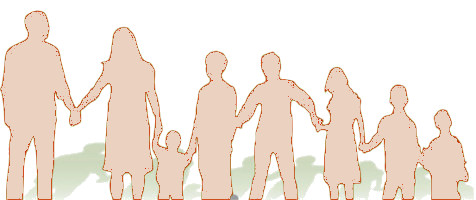
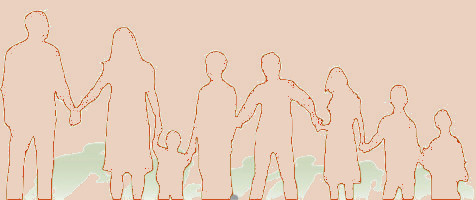
Gradient perfectioned

diff --git a/css/template.css b/css/template.css
@@ -6,7 +6,7 @@ body
 {
   margin: 0 auto;
   padding: 0;
-  background: -webkit-gradient(linear, left top, left bottom, color-stop(0%,rgba(208,42,0,1)), color-stop(9%,rgba(208,42,0,1)), color-stop(21%,rgba(235,209,192,1)), color-stop(72%,rgba(255,255,255,1)));
+  background: -webkit-gradient(linear, left top, left bottom, color-stop(0%,rgba(208,42,0,1)), color-stop(9%,rgba(208,42,0,1)), color-stop(21%,rgba(235,209,192,1)), color-stop(100%,rgba(255,255,255,1)));
   font-family: Tahoma, Arial, Helvetica, Sans-Serif;
   font-style: normal;
   font-weight: normal;
@@ -143,7 +143,7 @@ table.position
   position: relative;
   z-index: 1;
   padding: 0;
-  background: -webkit-gradient(linear, left top, left bottom, color-stop(0%,rgba(208,42,0,1)), color-stop(9%,rgba(208,42,0,1)), color-stop(21%,rgba(235,209,192,1)), color-stop(72%,rgba(255,255,255,1)));
+  background: -webkit-gradient(linear, left top, left bottom, color-stop(0%,rgba(208,42,0,1)), color-stop(9%,rgba(208,42,0,1)), color-stop(21%,rgba(235,209,192,1)), color-stop(100%,rgba(255,255,255,1)));
 }
 
 .art-sheet-cc
@@ -194,7 +194,7 @@ div.art-header-jpeg
   left: 0;
   width: 899px;
   height: 200px;
-  background-image: url('../images/logo.jpg');
+  background-image: url('../images/logo2.jpg');
   background-repeat: no-repeat;
   background-position: left center;
 }
